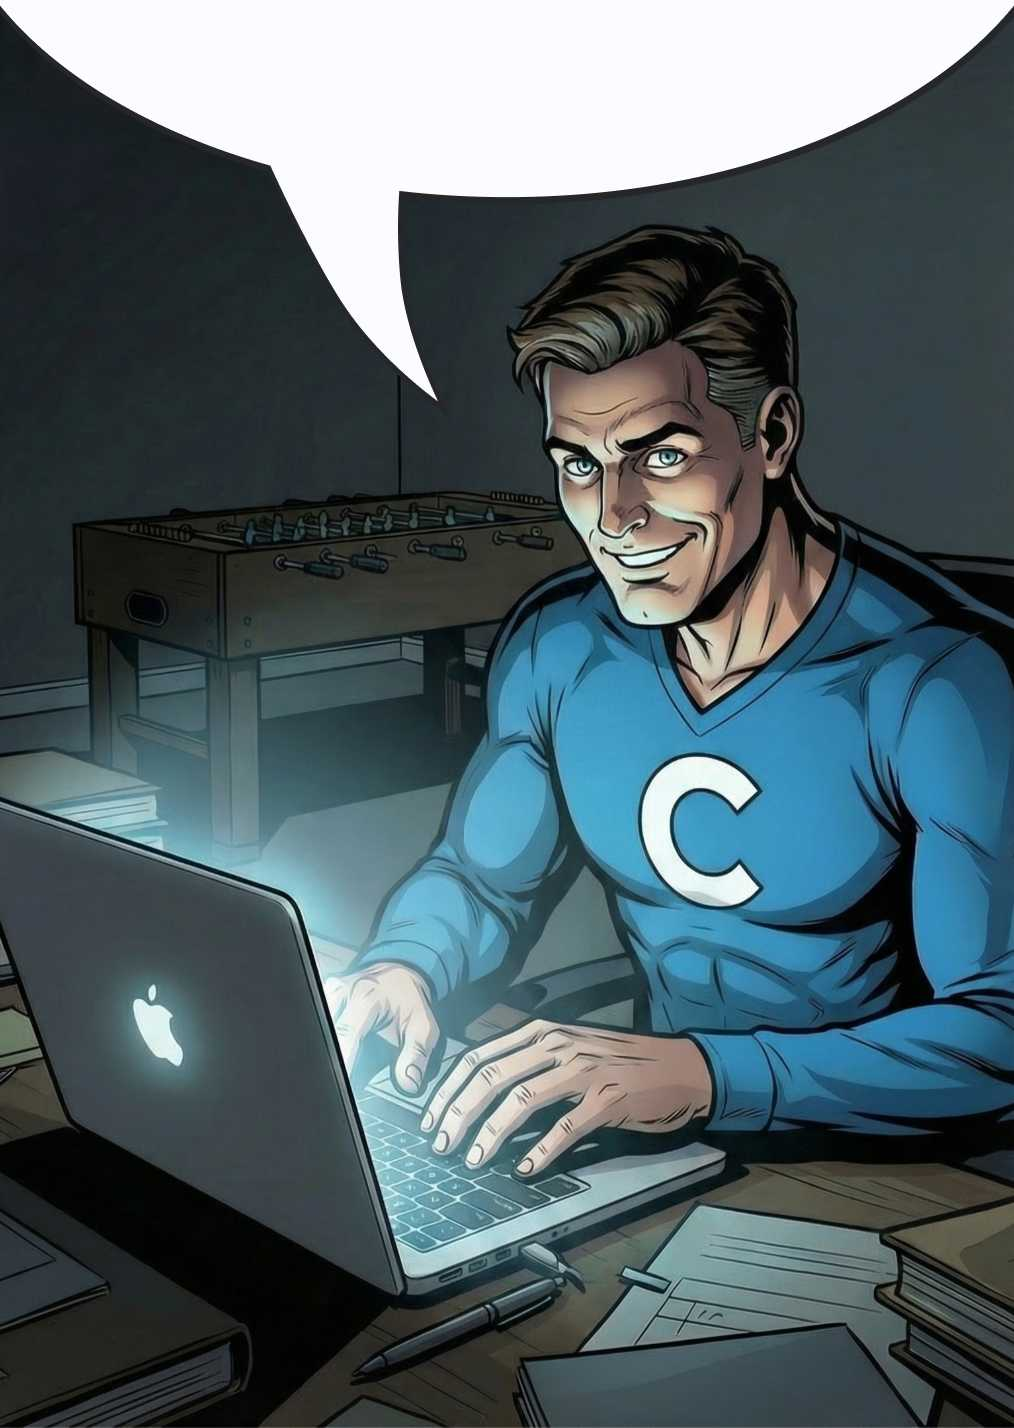
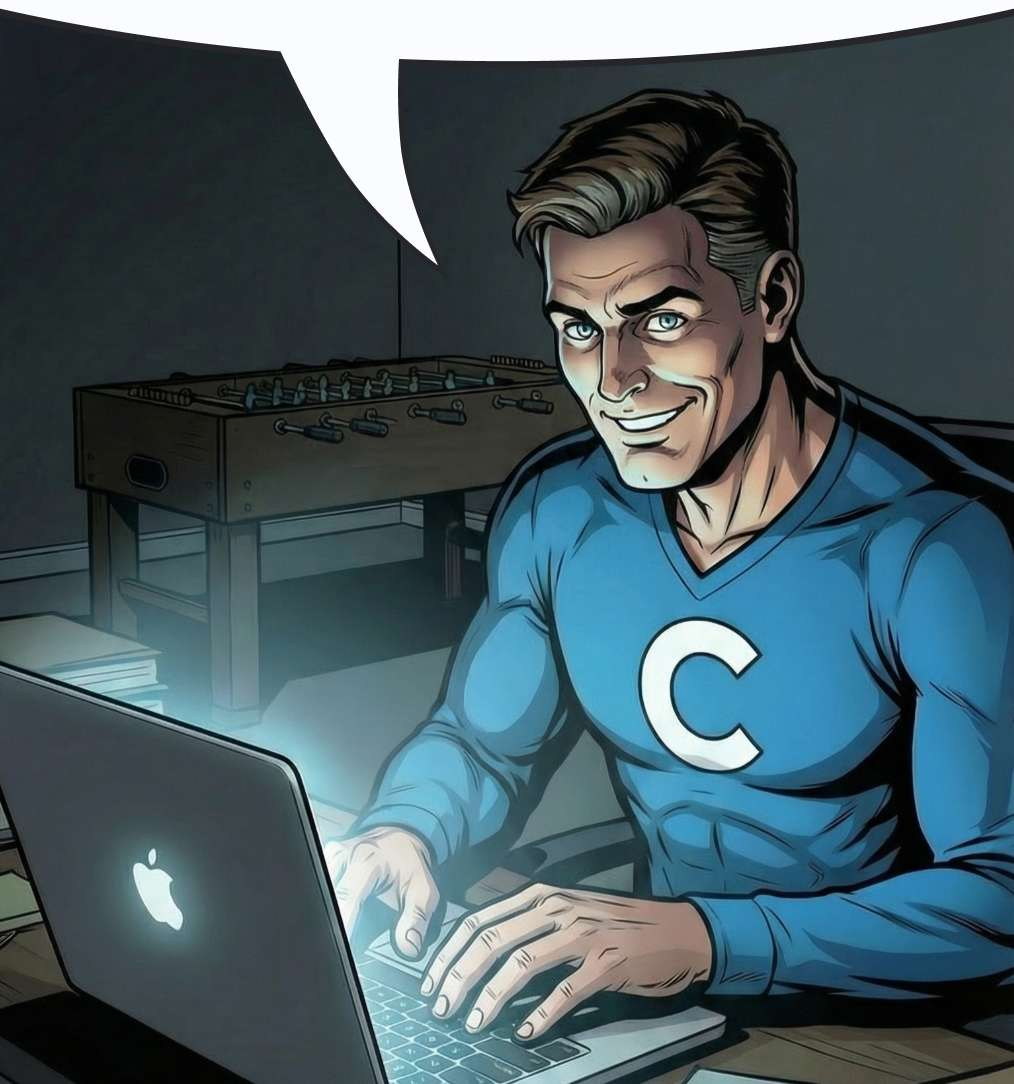
Refined About drawer text, bg, and hovers.

diff --git a/src/components/MenuButton.jsx b/src/components/MenuButton.jsx
@@ -139,7 +139,7 @@ function MenuButton() {
       </div>
 
       {isModalOpen && (
-        <div className="modal-overlay">
+        <div className={`modal-overlay ${isModalClosing ? 'closing' : ''}`}>
           <div 
             ref={modalRef}
             className={`modal-content ${isModalClosing ? 'closing' : ''}`}
@@ -152,7 +152,7 @@ function MenuButton() {
               <InlineSVG src="/img/ui/close.svg" alt="Close" />
             </button>
             <div className="modal-text-container">
-              <p>I wondered, how might I make my portfolio engaging and easy to read? Comics! And no more hand-coding HTML/CSS, so I vibe-coded it in <a href="https://cursor.sh" target="_blank" rel="noopener noreferrer">Cursor</a>, used <a href="https://recraft.ai" target="_blank" rel="noopener noreferrer">Recraft.ai</a> for imagery, and <a href="https://perplexity.ai" target="_blank" rel="noopener noreferrer">Perplexity</a> for research and how-to's. It's been fun!</p>
+              <p>I wondered, how might I make my portfolio engaging and easy to read? Comics! And after years of hand-coding HTML/CSS, I built this in <a href="https://cursor.sh" target="_blank" rel="noopener noreferrer">Cursor</a>, used <a href="https://recraft.ai" target="_blank" rel="noopener noreferrer">Recraft.ai</a> for image gen, <a href="https://getsoundly.com/" target="_blank" rel="noopener noreferrer">Soundly</a>, and <a href="https://perplexity.ai" target="_blank" rel="noopener noreferrer">Perplexity</a> for research. It's been fun! 🤠</p>
             </div>
             <div className="modal-image-container">
               <img src="/img/me/about-this-site-bg-50.jpg" alt="" />

diff --git a/src/components/MenuButton.css b/src/components/MenuButton.css
@@ -120,6 +120,29 @@
   backdrop-filter: blur(8px);
   -webkit-backdrop-filter: blur(8px);
   z-index: 2000;
+  animation: overlay-fade-in 0.3s ease-out;
+}
+
+.modal-overlay.closing {
+  animation: overlay-fade-out 0.25s ease-in;
+}
+
+@keyframes overlay-fade-in {
+  0% {
+    opacity: 0;
+  }
+  100% {
+    opacity: 1;
+  }
+}
+
+@keyframes overlay-fade-out {
+  0% {
+    opacity: 1;
+  }
+  100% {
+    opacity: 0;
+  }
 }
 
 .modal-content {
@@ -133,7 +156,7 @@
   flex-direction: column;
   border-left: 2px solid var(--color-near-white);
   box-shadow: 0 0 30px rgba(206, 212, 224, 0.5), 0 0 60px rgba(206, 212, 224, 0.3);
-  animation: drawer-slide-in 0.5s cubic-bezier(0.34, 1.56, 0.64, 1);
+  animation: drawer-slide-in 0.5s cubic-bezier(0.68, -0.55, 0.265, 1.55);
   overflow: hidden;
 }
 
@@ -206,10 +229,11 @@
 
 .modal-text-container a {
   color: var(--color-slate-blue);
-  text-decoration: none;
+  text-decoration: underline;
 }
 
 .modal-text-container a:hover {
+  color: var(--color-coral);
   text-decoration: underline;
 }
 
